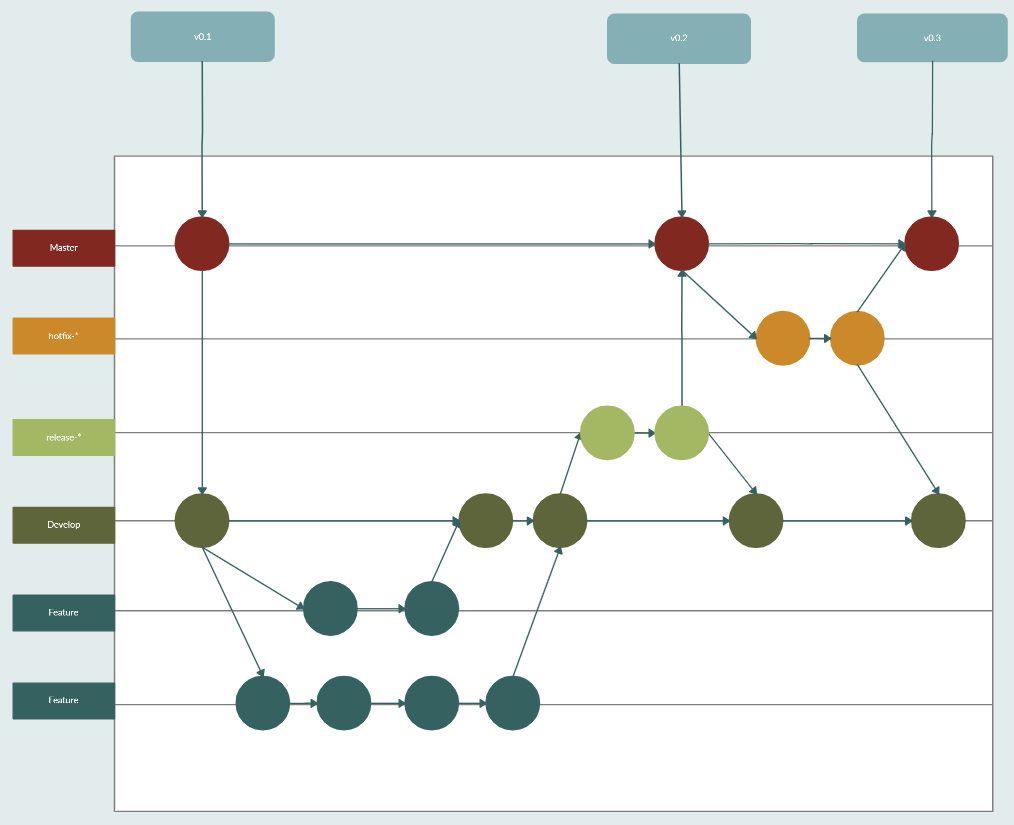
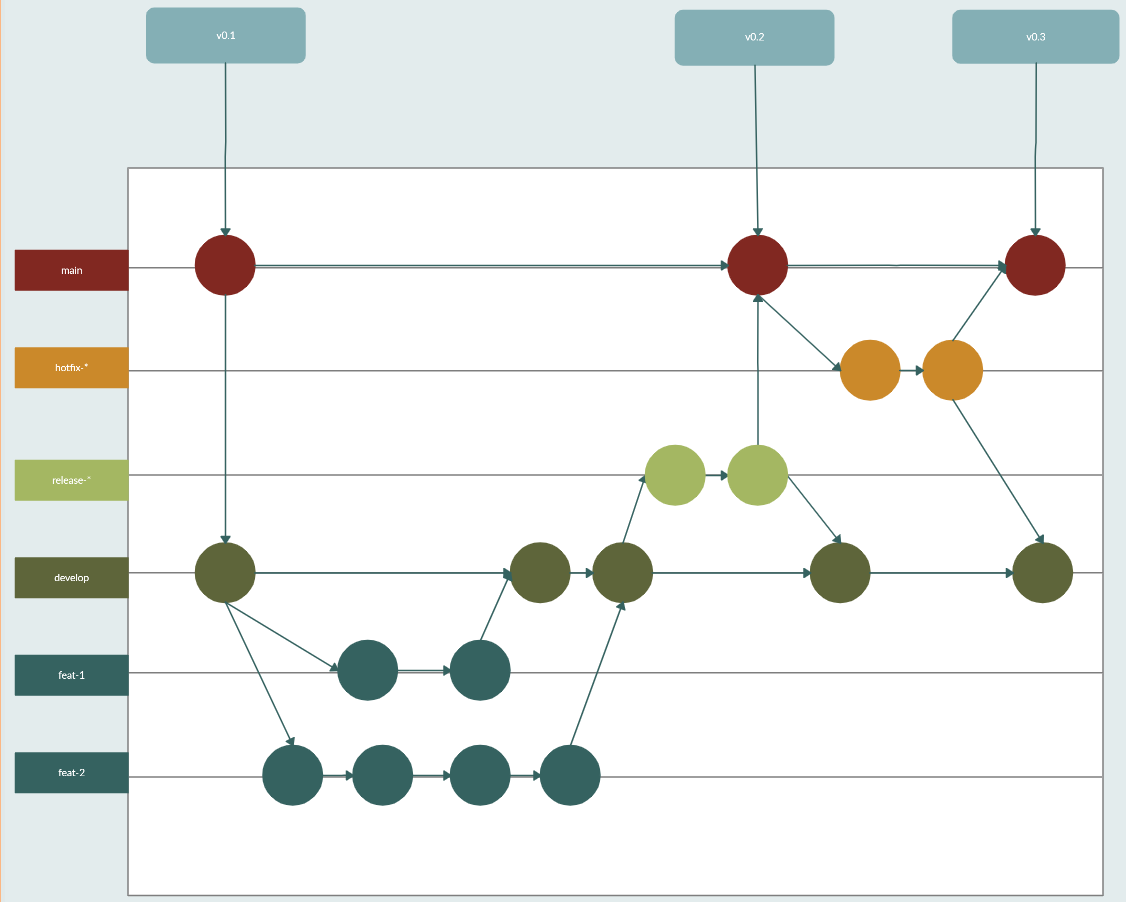
Changing git model image

diff --git a/README.md b/README.md
@@ -52,7 +52,7 @@ Main branches
 
 Supporting branches
 
-* Feature: This branch is used to introduce new charactristics to our app. The name of this kind of branches should start by "feat-". After the characteristic is ready, it should be merged with develop.
+* Feature: This branch is used to introduce new characteristics to our app. The name of this kind of branches should start by "feat-". After the characteristic is ready, it should be merged with develop.
 * Release: This branch is used to check the last details previous going to the production stage. The name of this kind of branches should start by "release-". After the realese is ready, it should be merged with develop and master.
 * Hotfix: This branch is used to solve a critical bug that was identified in the main branch. The name of this kind of branches should start by "hotfix-". When the bug is fixed, it should be merged with develop and main.
 
